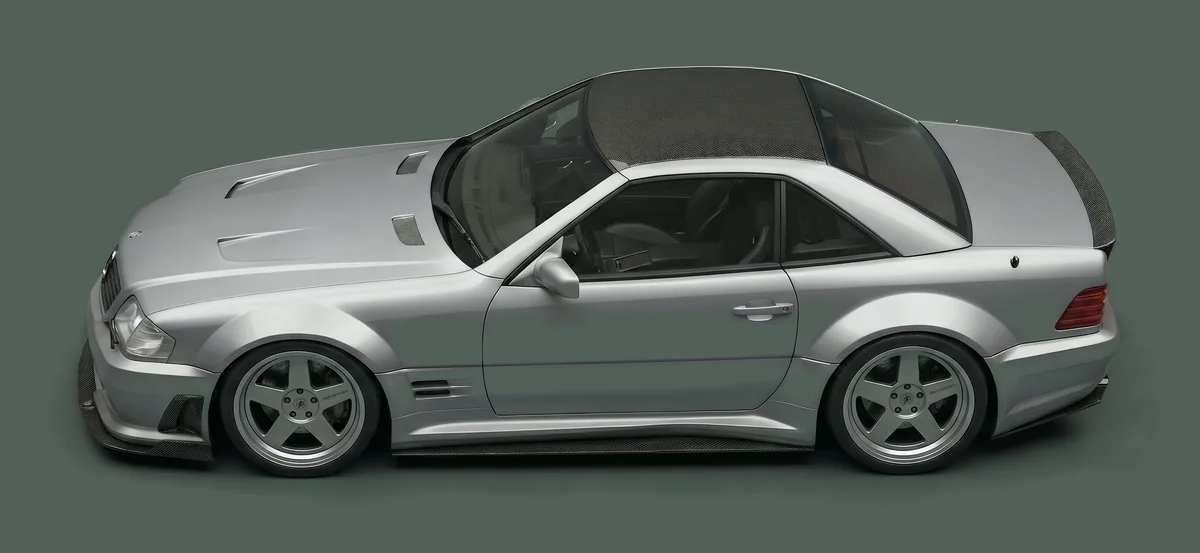
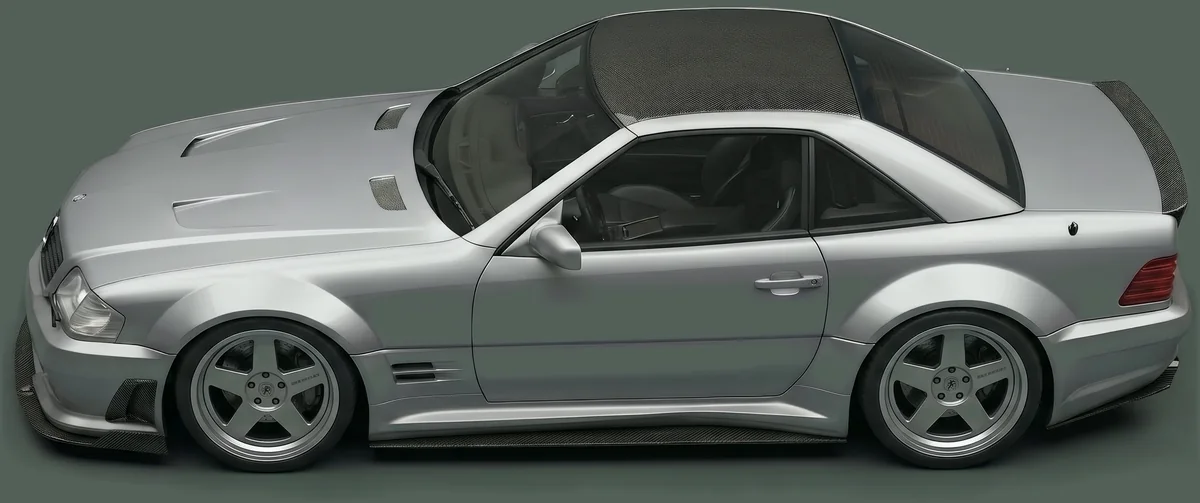
Car plates: renders cropped tight to the car, cars sized to the text column in every room
Claude-Session: https://claude.ai/code/session_01BQGnQ1DunPFoL87TBu9aW3

diff --git a/assets/styles.css b/assets/styles.css
@@ -462,12 +462,15 @@ h1, h2, h3, .serif-lead { text-wrap: balance; }
   .home-signup > .signup-head, .home-signup > form { grid-column: 1 / -1 !important; }
 }
 
-/* Homepage cars scale with the window on desktop: near full width, capped by window height.  Centered from the middle of the room so it can grow into the padding in any browser. */
-@media (min-width: 861px) {
-  #concepts .plate { width: min(calc(100vw - 72px), 160vh); max-width: none; margin-left: 0; margin-right: 0; left: 50%; transform: translateX(-50%); }
-}
 
 /* Room meta: the lede sits at the vertical center of the label stack on desktop. */
 @media (min-width: 861px) {
   .room-meta { align-items: center; }
+}
+
+/* Car plates.  Every hero render is cropped tight to the car, so the box is the car.
+   Desktop: the car spans the text column, gutter to gutter, the same width in every room.
+   It never grows past 2080px, and never taller than 70% of the window. */
+@media (min-width: 861px) {
+  .plate { width: min(100%, calc(70vh * var(--ar, 2.4)), 2080px); max-width: none; margin: 72px auto 0; }
 }

diff --git a/build.js b/build.js
@@ -188,8 +188,8 @@ const bigName = (c, tag = "h2") => {
   const [word, ...rest] = c.name.split(" ");
   return `<${tag} class="room-name">${esc(word)}<br>${esc(rest.join(" "))}</${tag}>`;
 };
-const plateImg = (img, eager) => `<figure class="plate">
-  <img src="${img.image}" srcset="${img.small} 1200w, ${img.image} ${img.width}w" sizes="(min-width: 861px) 100vw, 88vw" width="${img.width}" height="${img.height}" alt="${esc(img.alt)}"${eager ? ' fetchpriority="high"' : ' loading="lazy"'} decoding="async">
+const plateImg = (img, eager) => `<figure class="plate" style="--ar: ${(img.width / img.height).toFixed(3)}">
+  <img src="${img.image}" srcset="${img.small} 1200w, ${img.image} ${img.width}w" sizes="(min-width: 861px) min(92vw, 2080px), 100vw" width="${img.width}" height="${img.height}" alt="${esc(img.alt)}"${eager ? ' fetchpriority="high"' : ' loading="lazy"'} decoding="async">
   ${img.shadow === false ? "" : '<div class="plate-shadow" aria-hidden="true"></div>'}
 </figure>`;
 
